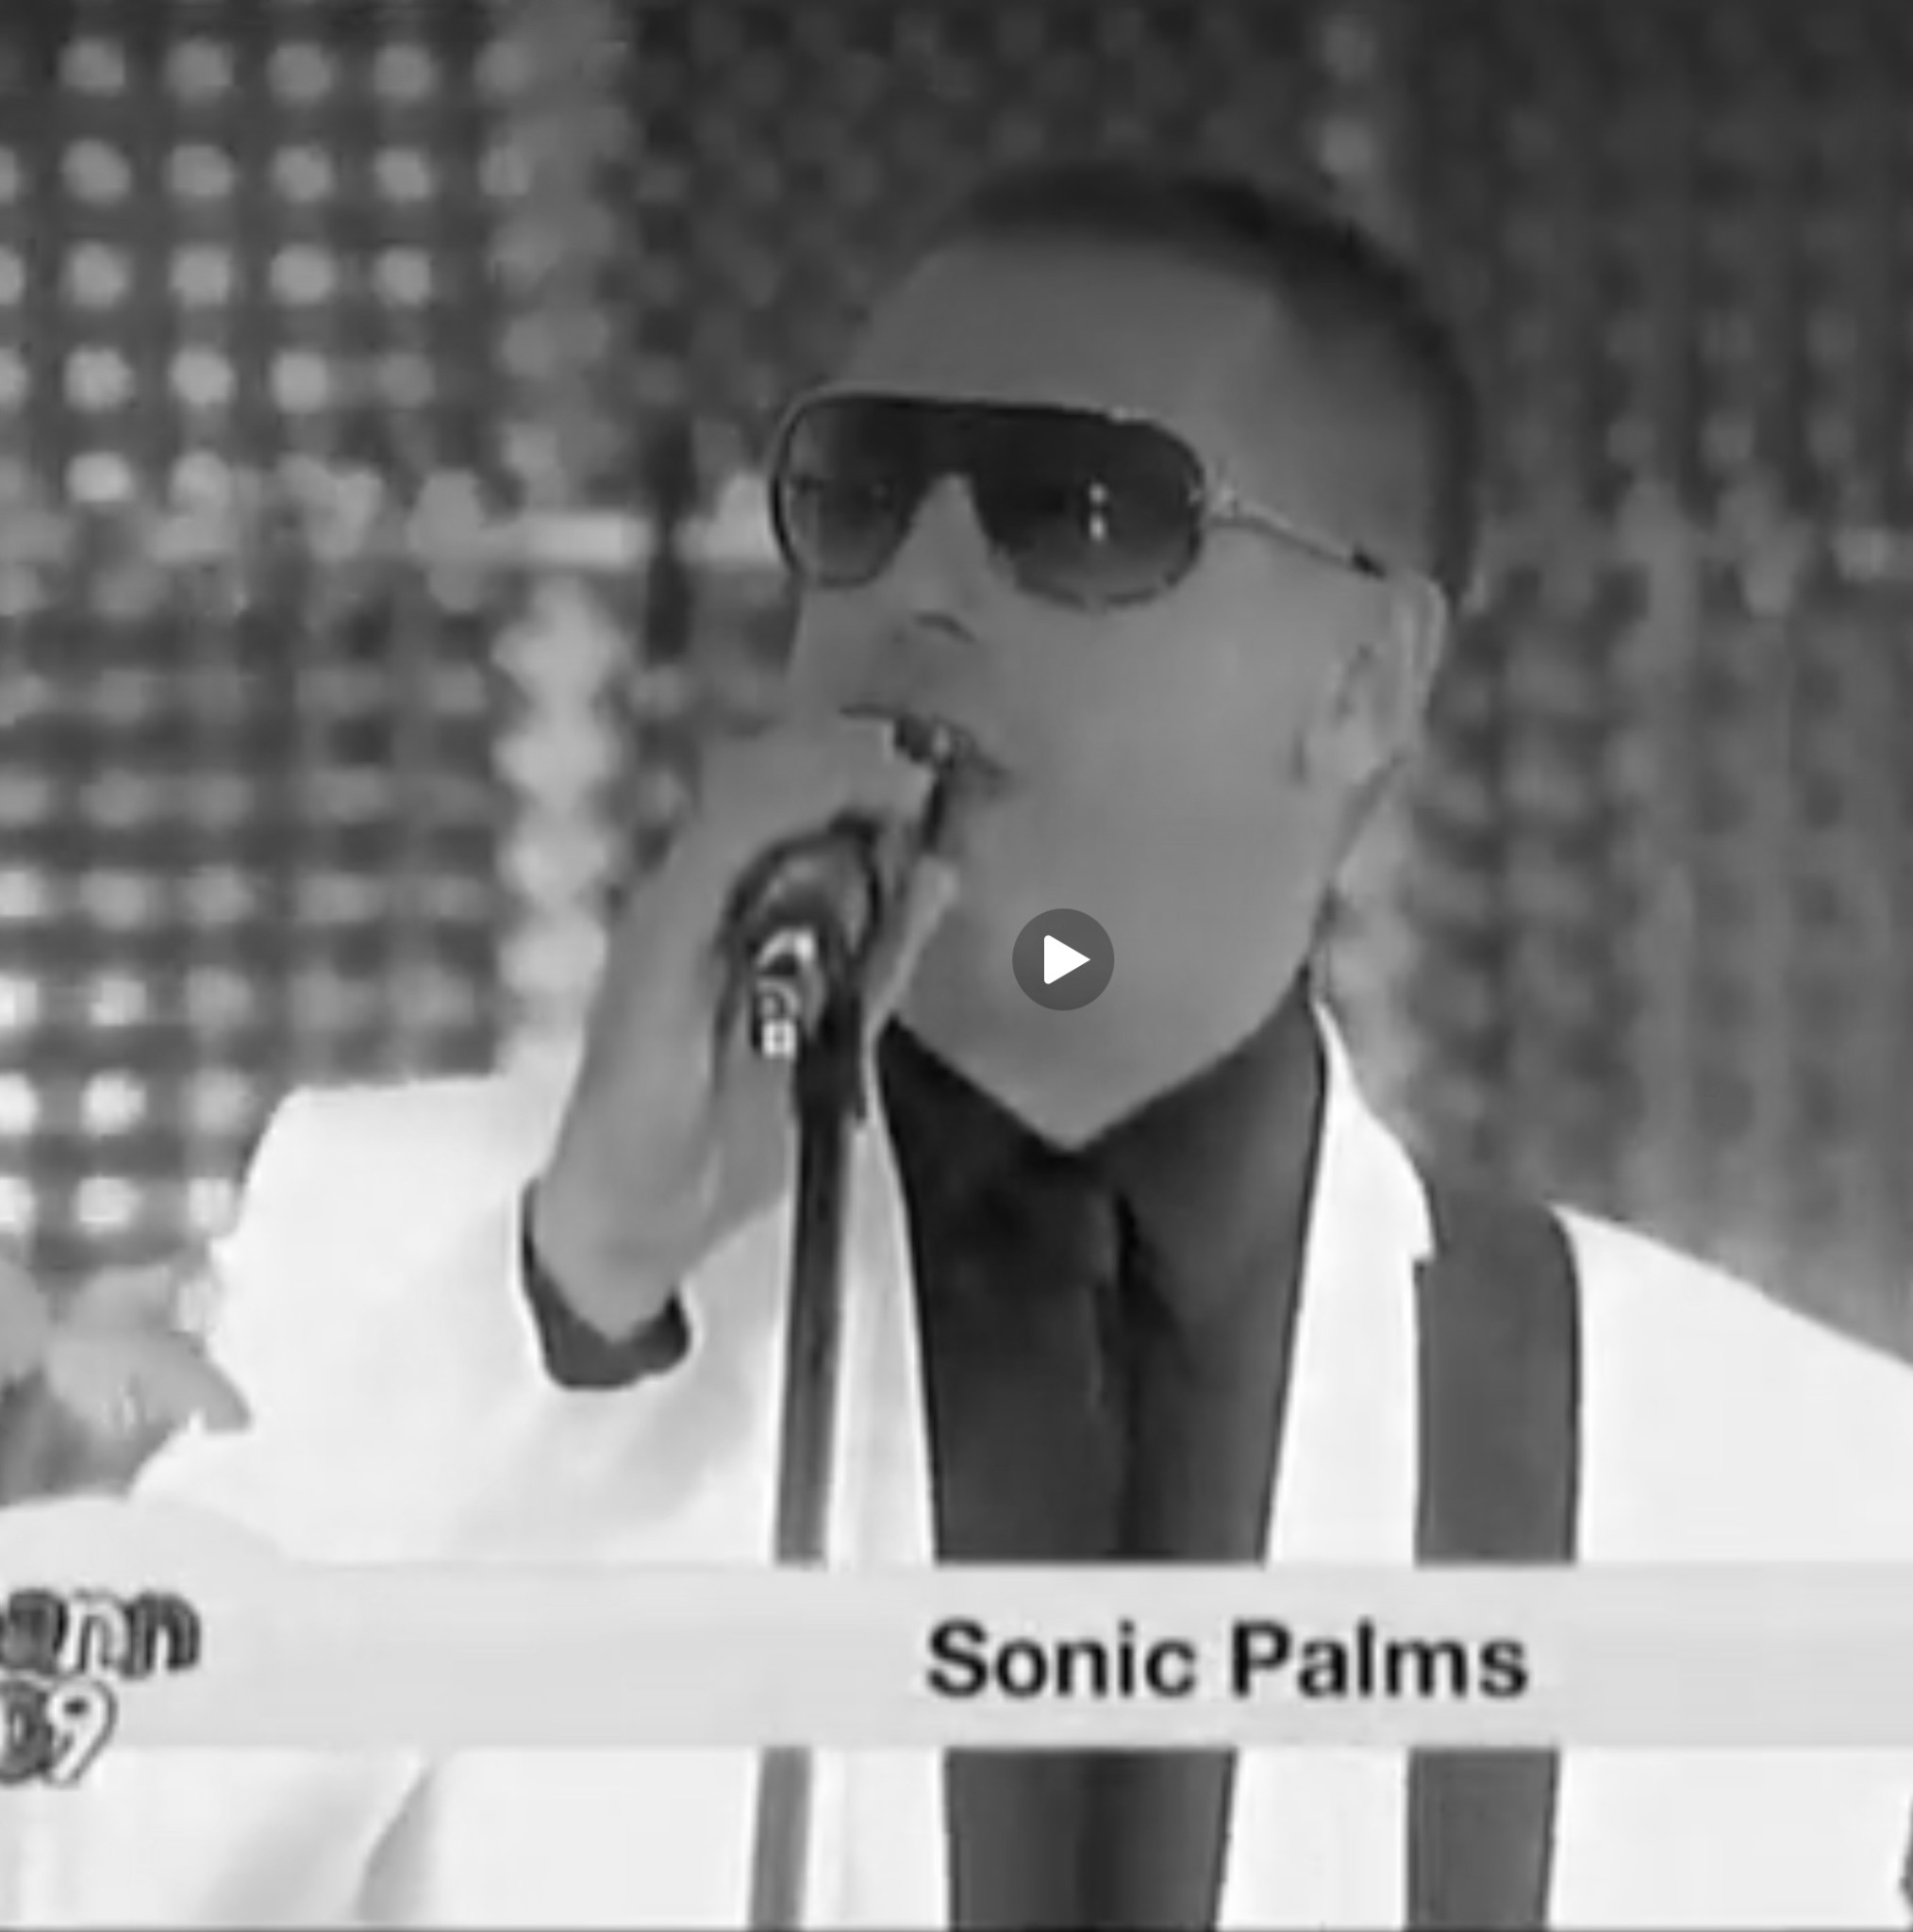
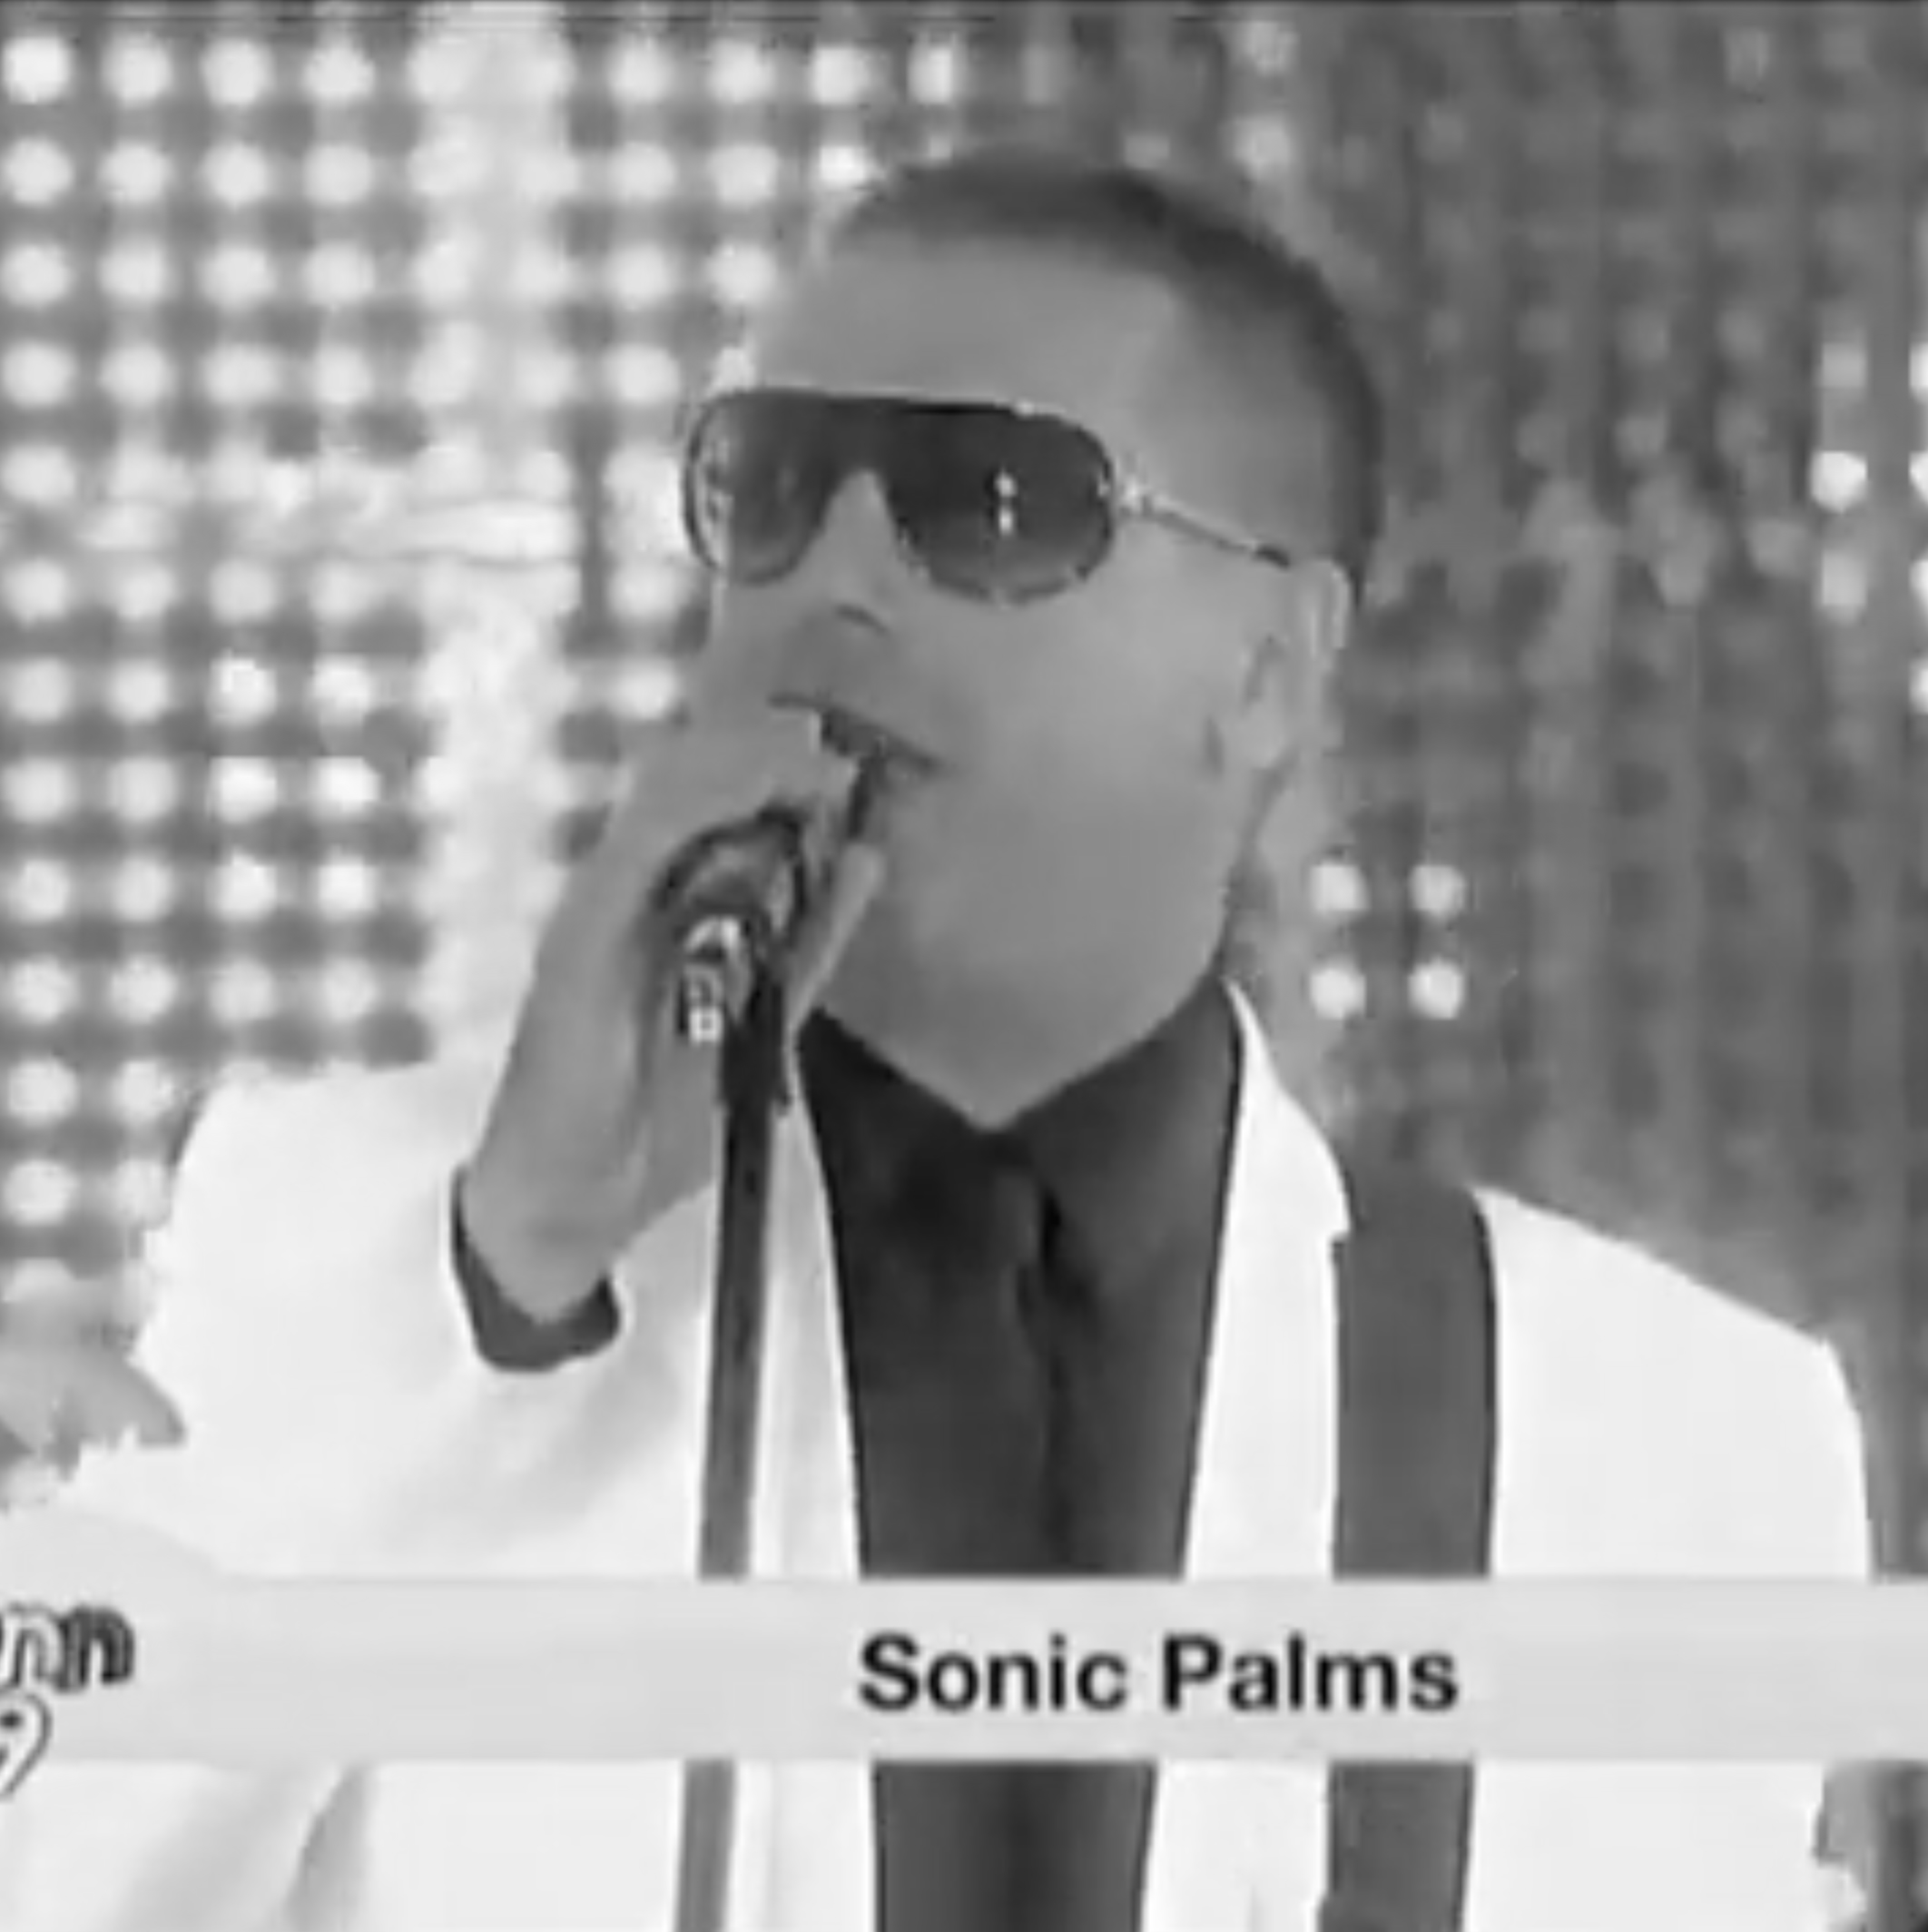
Marveltonez Website Version 10

diff --git a/style.css b/style.css
@@ -315,3 +315,68 @@ body{background:radial-gradient(circle at 0 18%,rgba(215,25,32,.115),transparent
 .youtube-link{display:inline-block;margin-top:14px;color:#dcdcdc;text-decoration:none;font-size:13px;text-transform:uppercase;letter-spacing:.08em}.youtube-link:hover{color:#fff}
 body.video-open{overflow:hidden}
 @media(max-width:620px){.video-lightbox{padding:14px}.video-dialog{padding:16px;border-radius:14px}.video-meta{padding:0 42px 12px 0}.video-meta h2{font-size:28px}.video-meta p{font-size:13px}.video-close{right:12px;top:12px}.video-frame-wrap.short{max-height:70vh;max-width:82vw}}
+
+/* Version 10 final refinements */
+/* Keep the page at the top on first mobile load instead of restoring a previous footer position. */
+html{overflow-anchor:none;}
+
+/* Hero mobile framing: keep both Mikes in view, slightly right of centre behind the left text. */
+@media(max-width:620px){
+  .hero-bg{
+    background:linear-gradient(90deg,rgba(0,0,0,.64) 0%,rgba(0,0,0,.38) 42%,rgba(0,0,0,.12) 72%,rgba(0,0,0,.24) 100%),url('assets/images/hero.jpg') 61% center/cover no-repeat;
+  }
+}
+
+/* Footer icons: official-style white marks, consistent red button family. */
+.socials a{
+  width:46px;
+  height:46px;
+  display:grid;
+  place-items:center;
+  color:#fff;
+  font-size:0;
+}
+.socials a svg{
+  width:24px;
+  height:24px;
+  display:block;
+  color:#fff;
+}
+.socials a.social-youtube span{
+  width:0;
+  height:0;
+  border-top:9px solid transparent;
+  border-bottom:9px solid transparent;
+  border-left:14px solid currentColor;
+  transform:translate(2px,0);
+}
+
+/* Touch devices: no sticky raised hover positions. Use a subtle highlight instead. */
+@media(hover:none){
+  .btn:hover,
+  .btn:active,
+  .btn:focus,
+  .contact-card:hover,
+  .contact-card:active,
+  .socials a:hover,
+  .socials a:active,
+  .socials a.social-youtube:hover,
+  .socials a.social-youtube:active{
+    transform:none !important;
+  }
+  .btn:active,
+  .btn:focus-visible{
+    border-color:rgba(255,255,255,.9);
+    box-shadow:0 0 0 2px rgba(255,255,255,.18),0 0 0 5px rgba(215,25,32,.22);
+  }
+  .socials a:active,
+  .socials a:focus-visible{
+    border-color:rgba(255,255,255,.86);
+    box-shadow:0 0 0 3px rgba(255,255,255,.16), inset 0 1px 0 rgba(255,255,255,.24);
+    filter:brightness(1.08);
+  }
+}
+
+/* Final play triangle position after testing: visually centred across desktop and iPhone. */
+.play::before{transform:translateY(4px)}
+@media(max-width:620px){.play::before{transform:translateY(5px)}}

diff --git a/script.js b/script.js
@@ -1,3 +1,13 @@
+// Version 10: prevent mobile browsers reopening the page at an old scroll position.
+if ('scrollRestoration' in history) {
+  history.scrollRestoration = 'manual';
+}
+window.addEventListener('pageshow', () => {
+  if (!window.location.hash) {
+    window.scrollTo(0, 0);
+  }
+});
+
 const menuToggle = document.querySelector('.menu-toggle');
 const navLinks = document.querySelector('.nav-links');
 if (menuToggle && navLinks) {

diff --git a/index.html b/index.html
@@ -143,7 +143,13 @@
 
   <footer class="site-footer">
     <div><a class="logo footer-logo" href="#home"><span>The</span> Marvel<span>tonez</span></a><p>Commercial Pop Songwriters<br>Mike Blake &amp; Mike Shannon</p></div>
-    <div><h4>Follow Us</h4><div class="socials"><a href="https://www.instagram.com/themarveltonez/" target="_blank" rel="noopener" aria-label="Instagram">IG</a><a href="https://www.facebook.com/themarveltonez" target="_blank" rel="noopener" aria-label="Facebook">f</a><a class="social-youtube" href="https://www.youtube.com/@marveltonez" target="_blank" rel="noopener" aria-label="YouTube"><span></span></a><a href="https://www.tiktok.com/@themarveltonez" target="_blank" rel="noopener" aria-label="TikTok">♪</a><a href="mailto:[email redacted]" aria-label="Email">✉</a></div></div>
+    <div><h4>Follow Us</h4><div class="socials">
+      <a href="https://www.instagram.com/themarveltonez/" target="_blank" rel="noopener" aria-label="Instagram"><svg viewBox="0 0 24 24" aria-hidden="true"><rect x="3" y="3" width="18" height="18" rx="5" ry="5" fill="none" stroke="currentColor" stroke-width="2.2"/><circle cx="12" cy="12" r="4.2" fill="none" stroke="currentColor" stroke-width="2.2"/><circle cx="17.4" cy="6.6" r="1.4" fill="currentColor"/></svg></a>
+      <a href="https://www.facebook.com/themarveltonez" target="_blank" rel="noopener" aria-label="Facebook"><svg viewBox="0 0 24 24" aria-hidden="true"><path fill="currentColor" d="M14.25 8.1h2.35V4.2c-.4-.06-1.78-.18-3.38-.18-3.34 0-5.62 2.04-5.62 5.8v3.26H4v4.36h3.6V24h4.42v-6.56h3.46l.55-4.36h-4.01V10.25c0-1.26.35-2.15 2.23-2.15z"/></svg></a>
+      <a class="social-youtube" href="https://www.youtube.com/@marveltonez" target="_blank" rel="noopener" aria-label="YouTube"><span></span></a>
+      <a href="https://www.tiktok.com/@themarveltonez" target="_blank" rel="noopener" aria-label="TikTok"><svg viewBox="0 0 24 24" aria-hidden="true"><path fill="currentColor" d="M15.2 3c.34 2.28 1.6 3.86 3.8 4.02v3.78c-1.28.04-2.4-.28-3.7-1.05v6.95c0 4.42-4.8 5.8-7.65 3.72-1.84-1.34-2.56-3.74-1.62-5.86.94-2.12 3.05-3.25 5.55-2.84v3.98c-.42-.14-.86-.21-1.3-.16-1.05.11-1.85.88-1.98 1.82-.19 1.36.86 2.3 2.05 2.3 1.15 0 2.07-.73 2.07-2.24V3h2.78z"/></svg></a>
+      <a href="mailto:[email redacted]" aria-label="Email"><svg viewBox="0 0 24 24" aria-hidden="true"><path fill="none" stroke="currentColor" stroke-width="2.2" stroke-linejoin="round" d="M3 6h18v12H3z"/><path fill="none" stroke="currentColor" stroke-width="2.2" stroke-linecap="round" stroke-linejoin="round" d="m4 7 8 6 8-6"/></svg></a>
+    </div></div>
     <p>© 2026 The Marveltonez<br>All rights reserved.</p>
   </footer>
 

diff --git a/README.md b/README.md
@@ -1,7 +1,5 @@
-# The Marveltonez Website — Version 9.2
+# The Marveltonez Website V10
 
-Premium Edition with cinematic video viewer.
+Static website for GitHub and Cloudflare Pages.
 
-Upload the contents of this folder to the GitHub repository root. Cloudflare Pages should redeploy automatically.
-
-Video thumbnails now open in an on-site lightbox rather than sending visitors away from the website.
+V10 includes final mobile/hero/footer refinements and the updated On The Beach thumbnail.